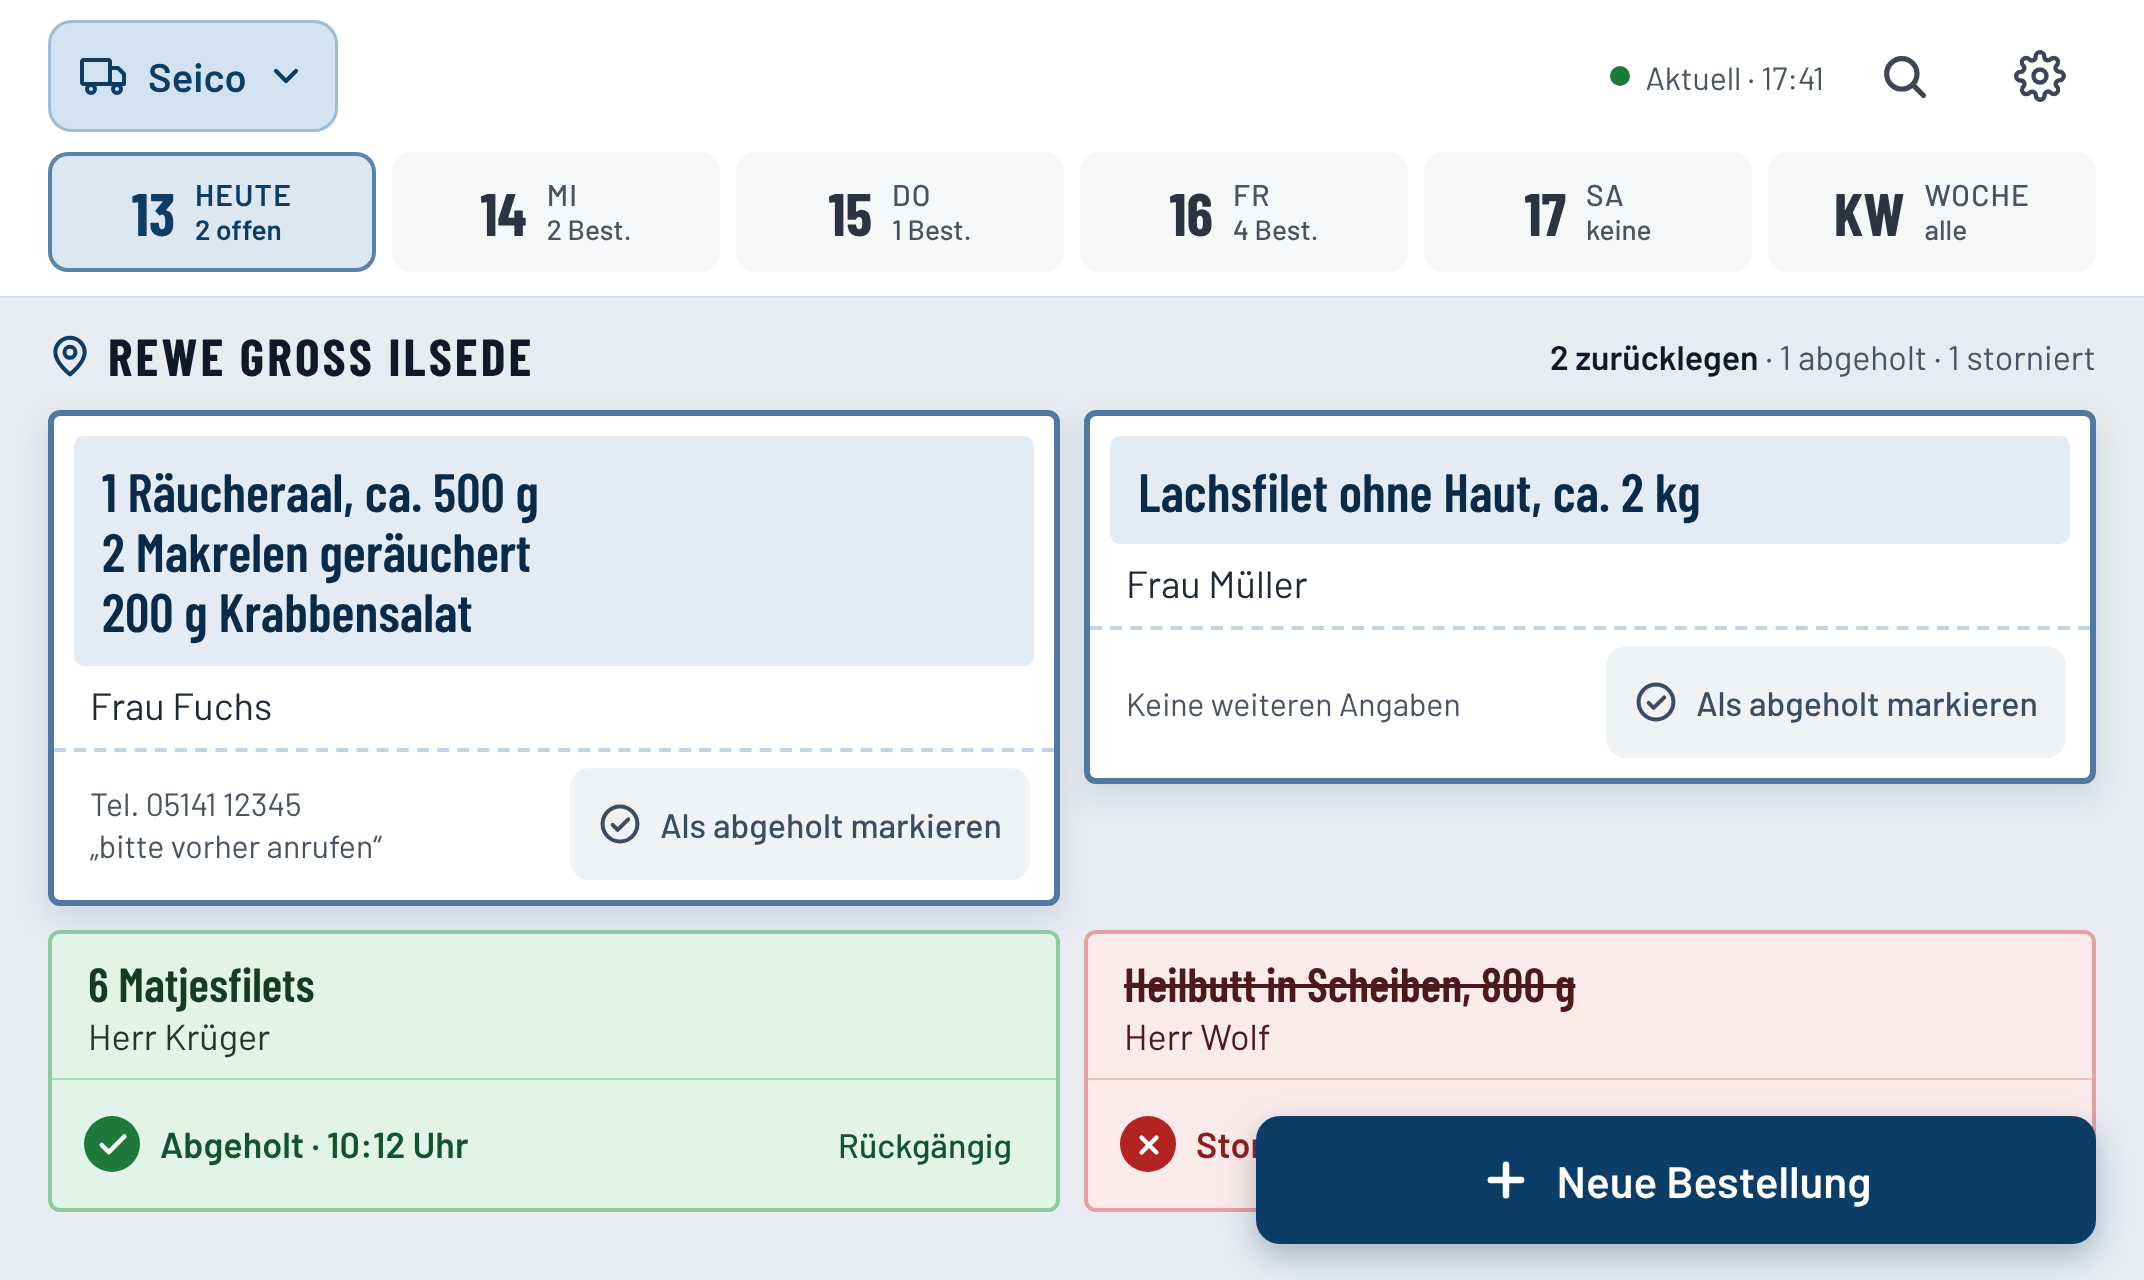
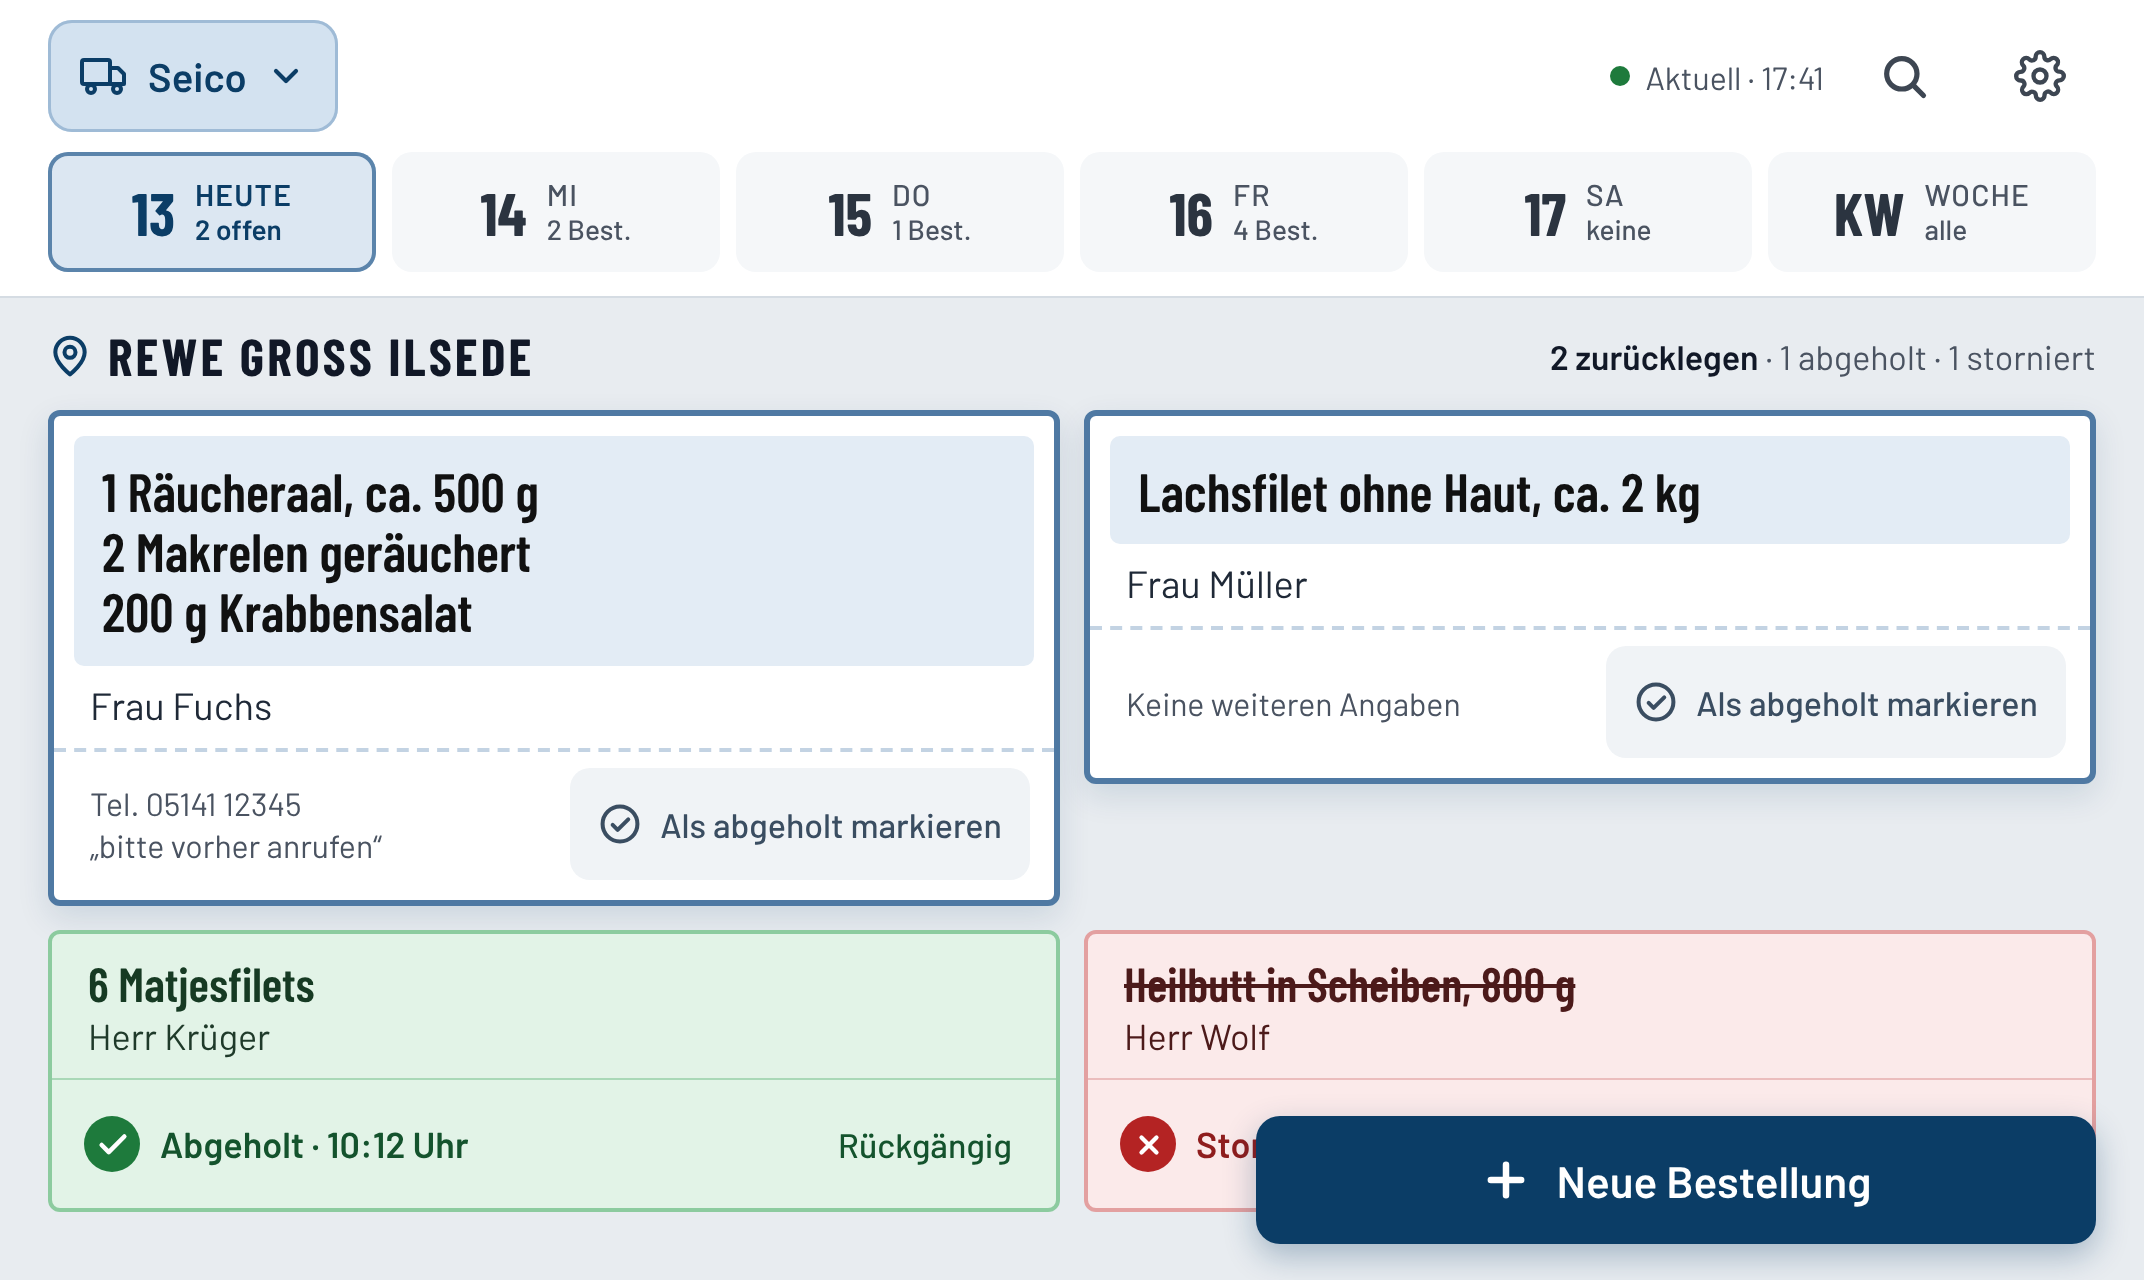
Hängende Änderungen sofort senden, sobald die Verbindung wieder da ist
Nach einem Funkloch blieben wartende Änderungen bis zu 2 Minuten in der
Wartezeit hängen – auch nach Neustart oder „Jetzt aktualisieren" stand
„Keine Verbindung · n wartet" da. Jetzt:
- klappt eine Aktualisierung, werden wartende Änderungen sofort gesendet
- Wartezeit zwischen Fehlversuchen höchstens 30 s
- Einstellungen zeigen den letzten Sendefehler und den nächsten Versuch
- Version 0.2.4

Changed region(s): [[0.0312, 0.375, 0.25, 0.5], [0.5312, 0.375, 0.8125, 0.4062]]

diff --git a/design-vorlage/themen/thema-dunkel.css b/design-vorlage/themen/thema-dunkel.css
@@ -1,0 +1,44 @@
+/* THEMA 4 · „Nachtschicht“ – Dark Mode auf Basis von F6.
+   Nach vorlage.css einbinden. Layout und Schriften bleiben gleich, nur Farben. */
+:root {
+  --hintergrund: #0E141B;
+  --flaeche: #1A2430;               /* offene Zettel */
+  --kopf: #151D27;
+  --kopf-linie: #243140;
+
+  --text: #E8EDF3;
+  --text-2: #C9D3DE;
+  --text-3: #93A1B0;
+  --icon: #C9D3DE;
+
+  --blau: #2E78C7;                  /* Primärbutton */
+  --blau-rahmen: #5B9BD5;
+  --blau-feld: #1F3550;
+  --blau-feld-text: #EEF5FF;
+  --blau-aktiv: #1F3550;
+  --blau-aktiv-rand: #5B9BD5;
+  --blau-auswahl: #22344A;
+  --blau-auswahl-rand: #4A6F96;
+  --tag-normal: #1C2632;
+  --tag-normal-text: #C9D3DE;
+  --strich: #2C3A4A;
+
+  --sekundaer: #243140;
+  --sekundaer-text: #D3DCE6;
+
+  --gruen-flaeche: #13261C; --gruen-rand: #2F6B45; --gruen-linie: #24452F; --gruen-punkt: #3A9E61; --gruen-text: #8FD9AA; --gruen-ware: #CFEBD9; --gruen-kunde: #A9C9B5;
+  --rot-flaeche: #2A1719;   --rot-rand: #7A3036;   --rot-linie: #4A2428;   --rot-punkt: #C9474F; --rot-text: #F0A3A9;   --rot-ware: #E6C4C7;
+
+  --online: #4CC37A;
+}
+
+body { background: var(--hintergrund); }
+.kopf { background: var(--kopf); box-shadow: 0 1px 0 var(--kopf-linie); }
+.fahrzeug { color: #EEF5FF; }
+.tag.aktiv { color: #EEF5FF; }
+.tag.aktiv .wt, .tag.aktiv .anz { color: #BFD6EE; }
+.markt-name { color: var(--blau-rahmen); }
+
+.zettel.offen { box-shadow: 0 8px 22px rgba(0,0,0,.45), 0 0 0 1px rgba(91,155,213,.15); }
+.primaer { box-shadow: 0 8px 22px rgba(46,120,199,.35); }
+.knopf-abgeholt { box-shadow: inset 0 0 0 1px #33445A; }

diff --git a/app/js/ansichten/einstellungen.js b/app/js/ansichten/einstellungen.js
@@ -22,6 +22,14 @@ function schalter(titel, erklaerung, an, beiWechsel) {
     }, an ? '✓ An' : 'Aus'));
 }
 
+function diagnoseZeile(app) {
+  const d = app.warteschlange.diagnose();
+  if (!d) return null;
+  return h('p', { class: 'hinweis-text' },
+    'Letzter Sendeversuch fehlgeschlagen (' + d.versuche + '×): ' + (d.fehler || 'unbekannt') +
+    ' – nächster Versuch ' + (d.inSekunden ? 'in ' + d.inSekunden + ' s' : 'jetzt') + '. „Jetzt aktualisieren" sendet sofort, sobald das Netz da ist.');
+}
+
 export function einstellungenZeichnen(app) {
   const z = app.zustand;
   const n = app.warteschlange.anzahl();
@@ -33,6 +41,7 @@ export function einstellungenZeichnen(app) {
         h('p', null, z.fehler ? '⚠ Letzte Aktualisierung fehlgeschlagen: ' + z.fehler : 'Verbindung in Ordnung.'),
         z.stand && h('p', null, 'Stand der Daten: ' + zeitpunktText(z.stand)),
         h('p', null, n ? '⏳ ' + n + (n === 1 ? ' Änderung wartet' : ' Änderungen warten') + ' auf das Senden.' : 'Alle Änderungen sind gesendet.'),
+        diagnoseZeile(app),
         h('p', { class: 'hinweis-text' }, 'Die Übersicht aktualisiert sich alle 3 Minuten von selbst.'),
         h('button', { type: 'button', class: 'knopf breit', onclick: () => app.aktualisieren() }, icon('zurueckDrehen', { groesse: 22 }), 'Jetzt aktualisieren')),
 

diff --git a/app/js/warteschlange.js b/app/js/warteschlange.js
@@ -9,7 +9,9 @@ import { lesen, schreiben } from './speicher.js';
 import { Verbindungsfehler, mitZeitlimit } from './daten/fehler.js';
 
 const SCHLUESSEL = 'warteschlange';
-const WARTEZEITEN_MS = [5000, 15000, 30000, 60000, 120000];
+// Wartezeit nach Fehlversuchen. Bewusst kurz: Kommt das Netz zurück, soll nichts lange hängen.
+// (Zusätzlich sendet die App sofort neu, sobald eine Aktualisierung wieder klappt.)
+const WARTEZEITEN_MS = [3000, 10000, 20000, 30000];
 const ZEITLIMIT_MS = 25000;
 
 export class Warteschlange {
@@ -59,6 +61,13 @@ export class Warteschlange {
   anzahl() { return this.eintraege.length; }
 
   hatFehler() { return this.eintraege.some((e) => e.versuche > 0); }
+
+  /** Für die Einstellungen: letzte Fehlermeldung und wann der nächste Versuch kommt. */
+  diagnose() {
+    const e = this.eintraege.find((x) => x.versuche > 0);
+    if (!e) return null;
+    return { fehler: e.letzterFehler || '', versuche: e.versuche, inSekunden: Math.max(0, Math.round((e.faelligAb - Date.now()) / 1000)) };
+  }
 
   /** Letzter wartender Eintrag je Bestellung (z. B. für „Rückgängig"). */
   ueberlagerung() {

diff --git a/app/js/main.js b/app/js/main.js
@@ -118,6 +118,8 @@ app.aktualisieren = async function () {
     zustand.stand = new Date().toISOString();
     zustand.fehler = null;
     standSichern();
+    // Server erreichbar → hängende Änderungen sofort senden, nicht erst nach der Wartezeit.
+    if (app.warteschlange.hatFehler()) app.warteschlange.wiederholen();
   } catch (e) {
     zustand.fehler = e.message || 'Unbekannter Fehler';
   } finally {

diff --git a/app/sw.js b/app/sw.js
@@ -4,7 +4,7 @@
 // Bei jeder Änderung an der App VERSION erhöhen (und APP_VERSION in js/version.js),
 // sonst bekommen die Tablets die neue Version nicht.
 
-const VERSION = '0.2.3';
+const VERSION = '0.2.4';
 const CACHE = 'seefisch-app-' + VERSION;
 
 const DATEIEN = [

diff --git a/app/js/version.js b/app/js/version.js
@@ -1,2 +1,2 @@
 // Bei jeder Änderung erhöhen – zusammen mit VERSION in sw.js.
-export const APP_VERSION = '0.2.3';
+export const APP_VERSION = '0.2.4';
